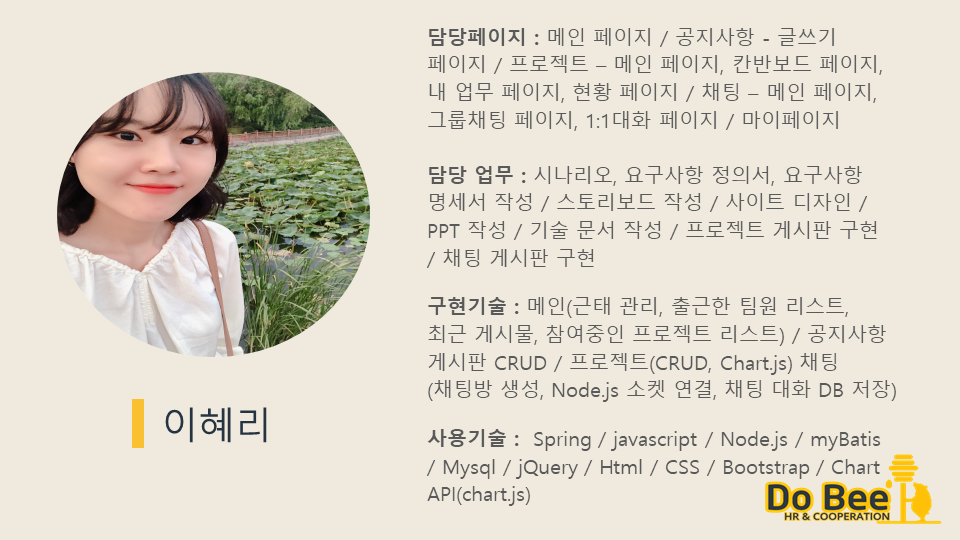
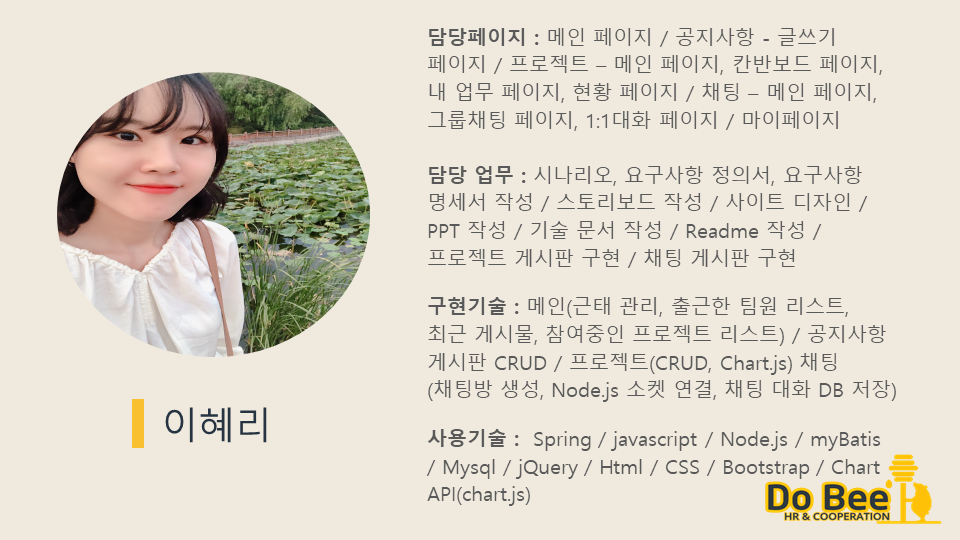
readme / 기술 추가

Changed region(s): [[0.4375, 0.4148, 0.9062, 0.5037], [0.8125, 0.4741, 0.8438, 0.5037]]

diff --git a/README.md b/README.md
@@ -28,25 +28,36 @@ DOBEE를 사용한다면 하나의 프로그램으로 두가지 기능을 함께
 
 # 프로젝트 주요 기술 및 구현 페이지  
 ### Google VISION API를 이용한 비용 처리
-DOBEE는 회계팀이 따로 없는 소규모 회사를 대상으로 하는 프로그램으로, 영수증 사진 인식을 통해 쉽게 비용을 처리할 수 있습니다.
+DOBEE는 회계팀이 따로 없는 소규모 회사를 대상으로 하는 프로그램으로, 영수증 사진 인식을 통해 쉽게 비용을 처리할 수 있습니다.  
 ![ex_screenshot](./dobeeProject/WebContent/img/vision.png)  
 
 ### Google Drive API를 이용한 프로젝트 관리
-Google Drive와 프로젝트를 연동하여 사용할 수 있도록 구현하였습니다.
+Google Drive와 프로젝트를 연동하여 사용할 수 있도록 구현하였습니다.  
 ![ex_screenshot](./dobeeProject/WebContent/img/drive.png)  
 
 
 ### MySQL Event Scheduler를 이용한 근태 관리 
-휴가나 연장근무 등의 신청이 오랜 시간이 지난 후에도 미승인으로 유지될 경우 사용자에게 불편함을 줄 수 있습니다. 이를 해결하기 위해 Event Scheduler를 활용해 미승인 건은 일정 기간이 지난 후 자동으로 반려 처리 될 수 있도록 했습니다.
+휴가나 연장근무 등의 신청이 오랜 시간이 지난 후에도 미승인으로 유지될 경우 사용자에게 불편함을 줄 수 있습니다. 이를 해결하기 위해 Event Scheduler를 활용해 미승인 건은 일정 기간이 지난 후 자동으로 반려 처리 될 수 있도록 했습니다.  
 ![ex_screenshot](./dobeeProject/WebContent/img/eventscheduler.png)  
+
+### MySQL Trigger를 이용한 부재 일정 관리 
+MySQL Trigger를 이용해 사용자가 연차 신청시 자동으로 연차가 계산되도록 구현하였습니다.
+![ex_screenshot](./dobeeProject/WebContent/img/trigger.png) 
 
 
 ### Node.js를 이용한 채팅 서비스
+이벤트 기반의 비동기 프로그래밍이라는 Node.js의 장점을 기반으로 채팅 서비스를 구현하였습니다.  
+![ex_screenshot](./dobeeProject/WebContent/img/node.png)  
 
-### WebSocket을 이용한 알림 
+### Spring WebSocket을 이용한 알림 서비스
+Spring WebSocket을 이용해 새 프로젝트 생성, 새 업무 추가, 채팅 메시지 수신시 알림이 전송되는 서비스를 구현하여 사용자의 편의성을 높였습니다.  
+![ex_screenshot](./dobeeProject/WebContent/img/alarm.png)  
 
 ### Java mail sender & Velocity를 이용한 회원가입
+Java mail sender와 Velocity Template을 이용해 관리자가 사원 등록시 해당 사원의 메일로 비밀번호 재설정 메일이 전송될 수 있도록 하였습니다.
 
+### Chart API를 이용한 데이터 시각화
+![ex_screenshot](./dobeeProject/WebContent/img/chart.png)  
 
 ## 팀원 소개
 * 김광민 : https://github.com/kkm8314
